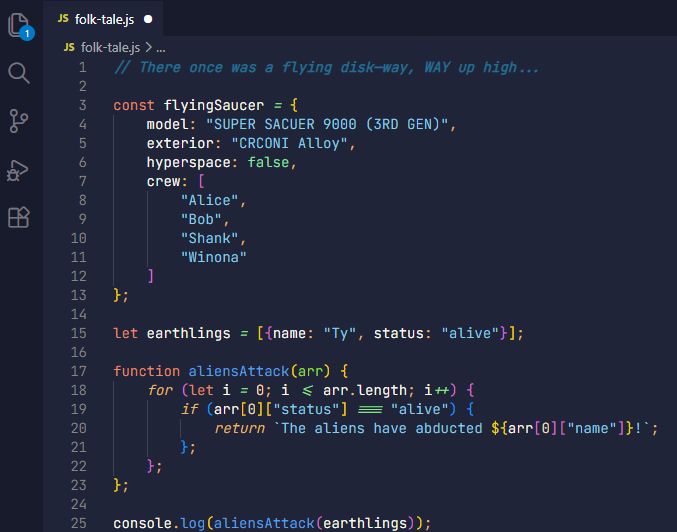
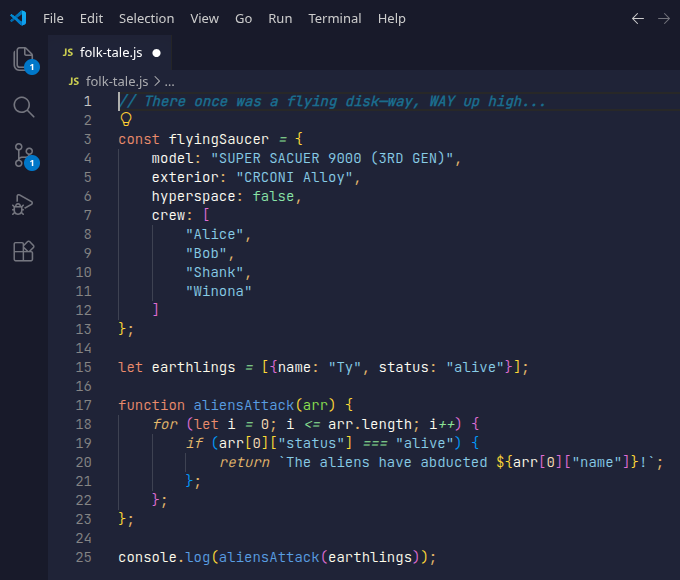
Cleaned up the README and updated the images
I removed a lot of visual clutter from the readme (the lines) and I took new pictures of the theme and cropped it so they were the same, but different themes. I also deleted the CHANGELOG.md file because it's never been used

diff --git a/README.md b/README.md
@@ -8,18 +8,15 @@
 Install directly from the VS Code Marketplace:
 https://marketplace.visualstudio.com/items?itemName=aidenhillar.superstitions
 
-Or inside VS Code:
 - Open Extensions
 - Search **Superstitions**
 - Click Install
 
 ###### (if you prefer to download locally or are offline, scroll to the bottom for installation instructions)
----
 
 # ***Thanks for downloading Superstitions!***
 #### If you enjoy Superstitions, please feel free to recommend it to other devs you know
 
----
 
 # Who is this theme for?
 
@@ -27,7 +24,6 @@ Any developer, really. I made it specifically for users with anti blue-light gla
 
 If the default theme feels boring, hard to read, or straining, then this theme is worth giving a shot!
 
----
 
 ## Why I made this theme
 
@@ -38,7 +34,6 @@ No other theme really clicked for me, so I decided to make my own. I watched thi
 
 It walked me step by step on how to make my own theme, so I did.
 
----
 
 ## What does it look like / style?
 
@@ -50,7 +45,6 @@ The best way I would describe this theme, is:
 
 When paired with the recommended font (more on that in the next section) and anti blue-light glasses or filter, this theme makes it easier to read code comfortably for longer periods.
 
----
 
 # What font should you use with this theme?
 
@@ -59,11 +53,10 @@ This theme was made to be used with JetBrains Mono Light.
 #### Setup (file found at my [GitHub Repository](https://github.com/aiden-hill-ar/Superstitions-theme) or [Google Fonts](https://fonts.google.com/specimen/JetBrains+Mono?preview.layout=grid)):
 
 1. Download the zip file and un-zip it
-2. Install the variable font (***not*** the italic one) by right clicking and intalling, or opening the file and installing
-3. Go to VS Code's search bar at the top and type **>Preferences: Open Settings (UI)**
-4. Then type in the search bar of the settings, **Editor: Font Family**
-5. You should see other fonts written there, good. That's normal. Now type in **'JetBrains Mono Light',** with the quotes as the first option
-6. Restart VS Code
+1. Install the variable font (***not*** the italic one) by right clicking and intalling, or opening the file and installing
+1. Then, go to settings and type in the search bar, `Editor: Font Family`
+1. You should see other fonts written there, good. That's normal. Now type in `'JetBrains Mono Light',` with the quotes as the first option
+1. Restart VS Code
 
 Finished!
 
@@ -73,22 +66,19 @@ Finished!
 3. It's got better line spacing than other monospaced fonts
 4. The light weight is better than the normal weight for code
 
----
 
 If you prefer using another font to code, I just want to say that this theme was made with JetBrains Mono Light in mind, so results may vary from those that I am stating in this README.
 
----
 
 #### Is this theme finished/where can I report a problem found in the theme? (like conflicting issues with certain code colors)
 
-No, this theme is not finished as of late. I have made the majority of the theme, but I have only used it across HTML, CSS, and JS as those are the only languages I currently know.
+This theme is not finished. I have come a long way from the beginning but I have only made themes for HTML, CSS, and JS for now. Eventually I plan on adding more languages.
 
 If you find a conflict between two different sets of code then you can create a new issue in the issues tab on my GitHub [here](https://github.com/aiden-hill-ar/Superstitions-theme/issues), and fill it out to the best of your ability.
 
 **Please keep the template text when submitting issues—it helps me quickly understand the problem.**
----
 
-# Manual Install through GitHub (useful for offline or manual installs)
+# Manual Install through GitHub
 
 Download the latest [`.vsix`](https://github.com/aiden-hill-ar/Superstitions-theme/releases) file from the Releases section and install it in VS Code:
 
@@ -99,14 +89,11 @@ Download the latest [`.vsix`](https://github.com/aiden-hill-ar/Superstitions-the
 5. Choose the downloaded file
 
 ###### Please keep in mind that downloading this theme from GitHub will not offer automatic updates and may not always be up to date.
-
 ---
 
-## And remember to:
----
+# Goodbye, and,
 
-- # Code
-- # Debug
-- # Enjoy!
+- ## Code
+- ## Debug
+- ## Enjoy!
 
----
